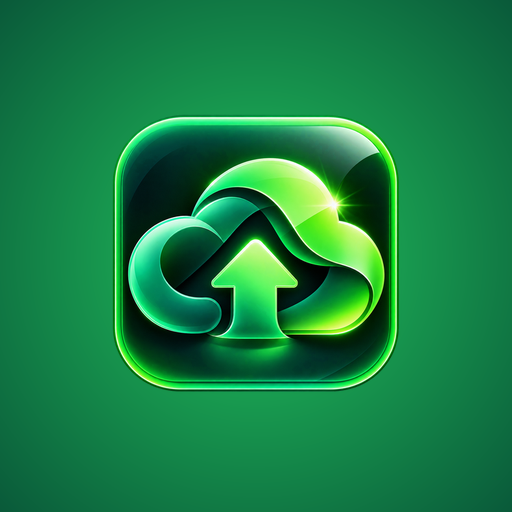
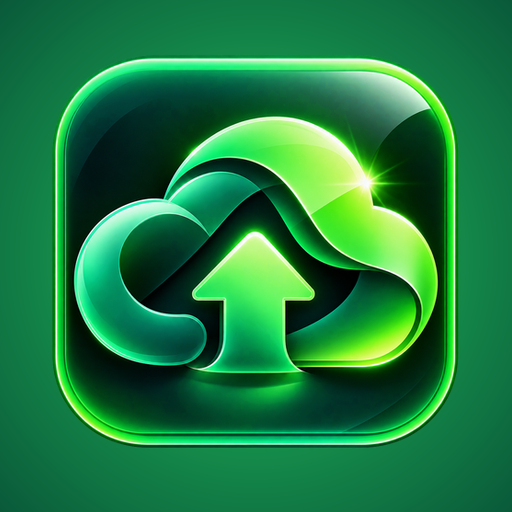
Icone cobre quase todo o quadrado; entrar numa pasta ja oferece enviar o compartilhamento ali
- Icone: arte aumentada bem grande (92% no uso normal, 78% no slot
  "maskable" do Android -- ainda com margem de seguranca, mas cobrindo
  bem mais o quadrado verde, como pedido).
- Compartilhamento: ao entrar numa pasta com arquivo(s) pendente(s) de
  compartilhamento, já pergunta na hora se quer mandar pra dentro dela
  (sem precisar achar/tocar num botao separado depois). O banner com
  "Enviar aqui" continua existindo como alternativa (ex: enviar direto
  na pasta raiz, sem entrar em nenhuma subpasta).
- Adiciona aviso quando o redirecionamento de compartilhamento chega
  mas o Service Worker nao achou nenhum arquivo no cache (em vez de
  falhar em silencio) -- ajuda a diagnosticar se ainda nao funcionar.

Claude-Session: https://claude.ai/code/session_01HspcqP295BKo9VdY2yVLHw

diff --git a/LEUCLOUD/frontend/index.html b/LEUCLOUD/frontend/index.html
@@ -621,6 +621,11 @@ async function processarCompartilhamentoPendente() {
   renderBannerCompartilhado();
   if (arquivosCompartilhadosPendentes.length) {
     mostrarToast(arquivosCompartilhadosPendentes.length + ' arquivo(s) recebido(s). Escolha a pasta e toque em "Enviar aqui".');
+  } else {
+    // Chegou aqui pelo redirecionamento do compartilhamento, mas o
+    // cache do Service Worker estava vazio -- avisa em vez de ficar
+    // em silencio, pra dar pra saber que algo tentou e nao achou nada.
+    mostrarToast('Recebemos o pedido de compartilhamento, mas não achamos o arquivo. Tente compartilhar de novo.', true);
   }
 }
 
@@ -783,6 +788,12 @@ function renderListaArquivos(pastas, arquivos) {
 function abrirPasta(id, nome) {
   pilhaPastas.push({ id: id, name: nome });
   mostrarTela('arquivos');
+  if (arquivosCompartilhadosPendentes.length) {
+    var qtd = arquivosCompartilhadosPendentes.length;
+    if (confirm('Enviar ' + qtd + ' arquivo(s) recebido(s) pra dentro de "' + nome + '"?')) {
+      confirmarUploadCompartilhado();
+    }
+  }
 }
 
 async function criarPasta() {
@@ -1069,7 +1080,7 @@ async function trocarSenha() {
    cache) de vez em quando e compara o APP_BUILD_ID; se for diferente
    do que já está rodando na tela, recarrega sozinho -- assim ninguém
    precisa desinstalar/reinstalar o atalho pra ver uma correção nova. */
-var APP_BUILD_ID = 'BUILD-2026-09-23-02';
+var APP_BUILD_ID = 'BUILD-2026-09-23-03';
 var jaRecarregouLeuCloud = false;
 function verificarVersaoNovaLeuCloud() {
   if (jaRecarregouLeuCloud) return;
